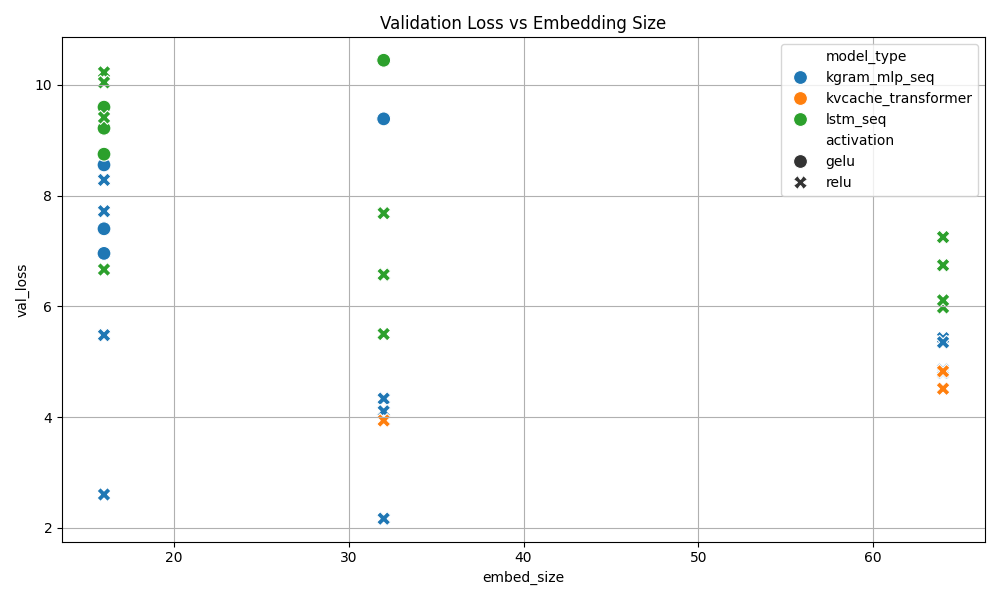
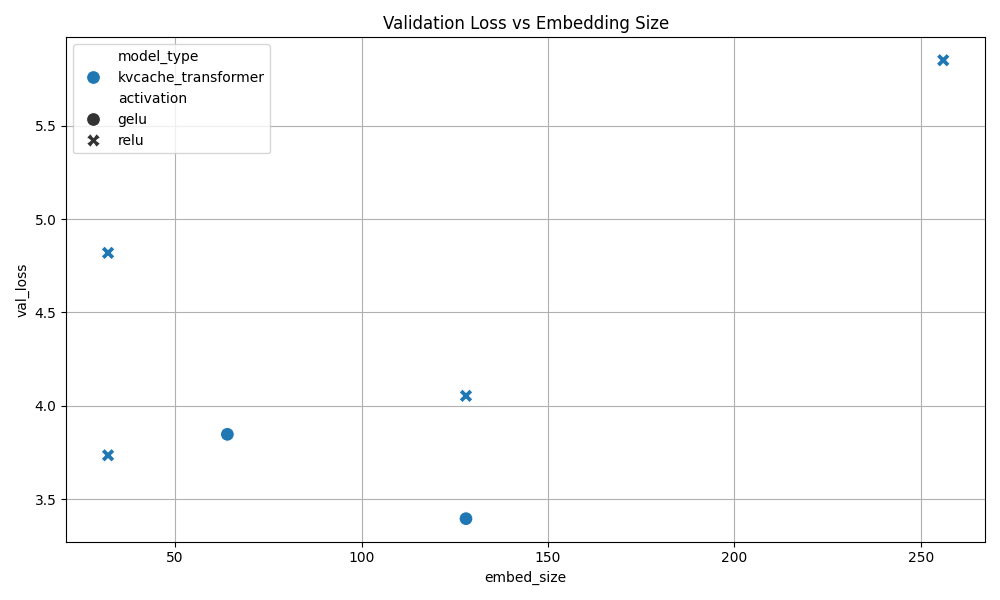
stable v1.2, hyperparam limits tested and set in the batch_train.py file

diff --git a/total_summary_analysis.py b/total_summary_analysis.py
@@ -5,42 +5,38 @@ import os
 import csv
 from collections import OrderedDict
 
+# ✅ Keep merge_summaries() unchanged
 def merge_summaries(analysis_dir="analysis_runs", output_csv="summary.csv"):
     merged_rows = OrderedDict()
-
-    # Look for all cache files in analysis_runs/
     for fname in os.listdir(analysis_dir):
         if fname.startswith("summary_cache") and fname.endswith(".csv"):
             full_path = os.path.join(analysis_dir, fname)
             print(f"📥 Reading {fname}")
-
             with open(full_path, newline='', encoding="utf-8") as f:
                 reader = csv.DictReader(f)
                 for row in reader:
                     config_name = row["config_name"]
-                    merged_rows[config_name] = row  # Overwrite with the latest
-
+                    merged_rows[config_name] = row
     if not merged_rows:
         print("⚠ No summary_cache files found.")
         return
-
-    # Write merged file
     output_path = os.path.join(analysis_dir, output_csv)
     keys = list(next(iter(merged_rows.values())).keys())
     with open(output_path, "w", newline='', encoding="utf-8") as f:
         writer = csv.DictWriter(f, fieldnames=keys)
         writer.writeheader()
         writer.writerows(merged_rows.values())
-
     print(f"\n✅ Merged summary written to {output_path} ({len(merged_rows)} entries)")
 
-
+# Merge summaries into one CSV
 summary_path = "analysis_runs/summary.csv"
 merge_summaries()
+
+# Proceed only if summary file exists
 if not os.path.exists(summary_path):
     raise FileNotFoundError("❌ summary.csv not found in analysis_runs/. Run analyze_all_checkpoints.py first.")
 
-# Load and clean
+# Load and clean summary
 df = pd.read_csv(summary_path)
 numeric_cols = [
     'avg_loss', 'val_loss', 'perplexity', 'token_accuracy',
@@ -51,45 +47,67 @@ for col in numeric_cols:
     if col in df.columns:
         df[col] = pd.to_numeric(df[col], errors='coerce')
 
-# Create output folder
-os.makedirs("analysis_runs/plots", exist_ok=True)
+# Output plots folder
+output_dir = "analysis_runs/plots"
+os.makedirs(output_dir, exist_ok=True)
 
-# 1. val_loss vs embed_size
-plt.figure(figsize=(10, 6))
-sns.scatterplot(data=df, x='embed_size', y='val_loss', hue='model_type', style='activation', s=100)
-plt.title("Validation Loss vs Embedding Size")
-plt.grid(True)
-plt.tight_layout()
-plt.savefig("analysis_runs/plots/val_loss_vs_embed_size.png")
+# 1. val_loss vs embed_size with trendlines and facets
+g = sns.lmplot(data=df, x='embed_size', y='val_loss', hue='model_type', col='activation',
+               height=5, aspect=1.2, ci=None, scatter_kws={'s': 60})
+g.set_titles(col_template="{col_name} activation")
+g.fig.subplots_adjust(top=0.85)
+g.fig.suptitle("Validation Loss vs Embedding Size by Activation", fontsize=16)
+g.savefig(f"{output_dir}/val_loss_vs_embed_size_by_activation.png")
 plt.close()
 
-# 2. perplexity vs token_accuracy
+# 2. Perplexity vs Token Accuracy (log scale)
 plt.figure(figsize=(10, 6))
 sns.scatterplot(data=df, x='token_accuracy', y='perplexity', hue='model_type', s=100)
-plt.title("Perplexity vs Token Accuracy")
+plt.yscale('log')
+plt.title("Perplexity vs Token Accuracy (log scale)")
 plt.grid(True)
+top = df.sort_values("token_accuracy", ascending=False).head(5)
+for _, row in top.iterrows():
+    plt.text(row['token_accuracy'], row['perplexity'], row['config_name'], fontsize=8)
 plt.tight_layout()
-plt.savefig("analysis_runs/plots/perplexity_vs_accuracy.png")
+plt.savefig(f"{output_dir}/perplexity_vs_accuracy_log.png")
 plt.close()
 
-# 3. val_loss by activation
+# 3. val_loss by activation (ordered + stripplot overlay)
 plt.figure(figsize=(10, 6))
-sns.boxplot(data=df, x='activation', y='val_loss', hue='model_type')
-plt.title("Validation Loss by Activation Function")
+order = df.groupby("activation")["val_loss"].median().sort_values().index
+sns.boxplot(data=df, x='activation', y='val_loss', hue='model_type', order=order)
+sns.stripplot(data=df, x='activation', y='val_loss', hue='model_type', dodge=True, alpha=0.5, order=order)
+plt.title("Validation Loss by Activation Function (Ordered by Median)")
 plt.grid(True)
 plt.tight_layout()
-plt.savefig("analysis_runs/plots/val_loss_by_activation.png")
+plt.savefig(f"{output_dir}/val_loss_by_activation_ordered.png")
 plt.close()
 
-# 4. val_loss heatmap by embed_size × k
+# 4. val_loss heatmaps by embed_size × k per model
 if "k" in df.columns:
-    heatmap_data = df.pivot_table(index='embed_size', columns='k', values='val_loss', aggfunc='mean')
-    plt.figure(figsize=(10, 6))
-    sns.heatmap(heatmap_data, annot=True, fmt=".2f", cmap="viridis")
-    plt.title("Validation Loss Heatmap (embed_size vs k)")
-    plt.tight_layout()
-    plt.savefig("analysis_runs/plots/val_loss_heatmap_embed_k.png")
-    plt.close()
+    for model in df["model_type"].dropna().unique():
+        subset = df[df["model_type"] == model]
+        if not subset.empty:
+            heatmap_data = subset.pivot_table(index='embed_size', columns='k', values='val_loss', aggfunc='mean')
+            plt.figure(figsize=(10, 6))
+            sns.heatmap(heatmap_data, annot=True, fmt=".2f", cmap="viridis")
+            plt.title(f"{model} - Validation Loss Heatmap (embed_size vs k)")
+            plt.tight_layout()
+            plt.savefig(f"{output_dir}/val_loss_heatmap_{model}_embed_k.png")
+            plt.close()
 
-print("✅ Summary plots saved to: analysis_runs/plots/")
-# 5. val_loss heatmap by embed_size × chunk_size
+# 5. Correlation Matrix
+plt.figure(figsize=(12, 10))
+corr = df[numeric_cols].corr()
+sns.heatmap(corr, annot=True, cmap="coolwarm", fmt=".2f")
+plt.title("Correlation Matrix (Hyperparams vs Metrics)")
+plt.tight_layout()
+plt.savefig(f"{output_dir}/correlation_matrix.png")
+plt.close()
+
+# 6. Top 10 leaderboard
+top10 = df.sort_values("val_loss").head(10)
+top10_path = f"{output_dir}/top10_val_loss.csv"
+top10.to_csv(top10_path, index=False)
+print(f"✅ Top 10 configs saved to: {top10_path}")

diff --git a/main.py b/main.py
@@ -159,6 +159,17 @@ def compute_next_token_loss(logits, tokens):
 
     preds = preds.reshape(-1, vocab_size)
     gold = gold.reshape(-1)
+
+    # 🔍 Sanity checks before loss computation
+    if (gold < 0).any() or (gold >= vocab_size).any():
+        print("🔥 Invalid token ID detected in gold targets!")
+        print("Max token id:", gold.max().item(), "Vocab size:", vocab_size)
+        print("Min token id:", gold.min().item())
+        print("First few gold tokens:", gold[:10].tolist())
+        raise ValueError("Invalid token index in target tensor for cross_entropy")
+
+    assert preds.size(0) == gold.size(0), f"Mismatch: preds={preds.size()}, gold={gold.size()}"
+
     return F.cross_entropy(preds, gold)
 
 
@@ -325,10 +336,12 @@ class TransformerBlock(nn.Module):
         return x, (k, v)
 
 class TransformerModel(nn.Module):
-    def __init__(self, vocab_size=50257, d_model=1024, n_heads=2, n_blocks=4, max_seq_len=2048, activation=nn.GELU()):
+    def __init__(self, vocab_size=50257, d_model=512, n_heads=1, n_blocks=1, max_seq_len=512, activation=nn.GELU()):
         super().__init__()
         self.token_emb = nn.Embedding(vocab_size, d_model)
         self.pos_emb = nn.Embedding(max_seq_len, d_model)
+        self.max_seq_len = max_seq_len
+
         self.blocks = nn.ModuleList([
             TransformerBlock(d_model, n_heads, activation) for _ in range(n_blocks)
         ])
@@ -337,6 +350,8 @@ class TransformerModel(nn.Module):
 
     def forward(self, tokens, past_kv_cache=None):
         seq_len, batch_size = tokens.shape
+        if seq_len > self.max_seq_len:
+            raise ValueError(f"Sequence length {seq_len} exceeds model max_seq_len={self.max_seq_len}.")
         device = tokens.device
 
         tok_emb = self.token_emb(tokens)
@@ -387,25 +402,40 @@ def monosemantic_analysis_for_token(token_id, model, monosomatics, enc, device="
 # 7. Single code path for text generation
 ################################################################################
 
-def nucleus_sampling(logits, p=0.95):
+def nucleus_sampling(logits, p=0.95, temperature=8.0, past_tokens=None, repetition_penalty=1.0):
     """
-    Perform nucleus (top-p) sampling on logits.
+    Top-p (nucleus) sampling with temperature and repetition penalty.
     """
-    probs = torch.softmax(logits, dim=-1)  # (vocab_size,)
-    sorted_probs, sorted_indices = torch.sort(probs, descending=True)
-    cumulative_probs = torch.cumsum(sorted_probs, dim=-1)
+    logits = logits.clone()  # avoid modifying in-place
 
-    # Find the cutoff where cumulative prob exceeds p
+    # Apply repetition penalty
+    if past_tokens and repetition_penalty != 1.0:
+        for token_id in set(past_tokens):
+            if 0 <= token_id < logits.size(0):  # valid token range
+                if logits[token_id] > 0:
+                    logits[token_id] /= repetition_penalty
+                else:
+                    logits[token_id] *= repetition_penalty
+
+    # Handle deterministic case
+    if p >= 1.0 and temperature == 0:
+        return torch.argmax(logits).item()
+
+    if temperature != 1.0:
+        logits = logits / temperature
+
+    sorted_logits, sorted_indices = torch.sort(logits, descending=True)
+    probs = torch.softmax(sorted_logits, dim=-1)
+    cumulative_probs = torch.cumsum(probs, dim=-1)
+
     cutoff_index = torch.searchsorted(cumulative_probs, p, right=True).item()
-
-    # Get the top-k indices and their probabilities
     top_indices = sorted_indices[:cutoff_index + 1]
-    top_probs = sorted_probs[:cutoff_index + 1]
-    top_probs = top_probs / top_probs.sum()  # renormalize
+    top_probs = probs[:cutoff_index + 1]
+    top_probs = top_probs / (top_probs.sum() + 1e-8)
 
-    # Sample from the top-k
     sampled_index = torch.multinomial(top_probs, 1).item()
     return top_indices[sampled_index].item()
+
 
 def generate_text(model, enc, init_text, max_new_tokens=20, device="cpu",
                   top_p=None,
@@ -438,7 +468,13 @@ def generate_text(model, enc, init_text, max_new_tokens=20, device="cpu",
             if top_p is None:
                 chosen_token = torch.argmax(next_logits).item()
             else:
-                chosen_token = nucleus_sampling(next_logits, p=top_p)
+                chosen_token = nucleus_sampling(
+                    next_logits,
+                    p=top_p,
+                    temperature=0.8,                # or expose this as a param
+                    past_tokens=context_tokens,    # repetition tracking
+                    repetition_penalty=1.5         # tweakable
+                )
 
             context_tokens.append(chosen_token)
 
@@ -789,8 +825,8 @@ def main():
     ).to(device)
 
     models = {
-        "kgram_mlp_seq": kgram_model,
-        "lstm_seq": lstm_model,
+        # "kgram_mlp_seq": kgram_model,
+        # "lstm_seq": lstm_model,
         "kvcache_transformer": transformer,
     }
 

diff --git a/batch_train.py b/batch_train.py
@@ -7,23 +7,23 @@ import argparse
 from main import get_model_config  # ✅ Import from your main.py
 import random
 # Set a fixed seed for reproducibility
-random.seed(42)
+random.seed(71236)
 
 # Define your hyperparameter grid
 param_grid = {
     "--learning_rate": ["0.001", "0.05"],
     "--activation": ["relu", "gelu"],
-    "--batch_size": ["4", "8", "16"],
-    "--embed_size": ["16", "32", "64"],
-    "--num_inner_mlp_layers": ["3", "10"],
-    "--kgram_k": ["1", "2", "3", "4"],
-    "--block_size": ["8", "16", "32"],
-    "--num_epochs": ["2", "5", "7"],
+    "--batch_size": ["32", "64", "128", "256", "512"],
+    "--embed_size": ["32", "64", "128", "256"],
+    "--num_inner_mlp_layers": ["3", "5", "7", "9", "11"],
+    "--kgram_k": ["1", "2", "3", "4", "5"],
+    "--block_size": ["16", "32", "64", "128"],
+    "--num_epochs": ["2", "5", "7", "10"],
     "--tinystories_weight": ["0.8"],
     "--val_split": ["0.2"],
 
     # Fixed arguments
-    "--train_subset_size": ["1000"],
+    "--train_subset_size": ["10000"],
     "--max_steps_per_epoch": ["20"],
     "--log_interval_steps": ["19"],
     "--sample_interval_seconds": ["30"],
@@ -42,7 +42,7 @@ combinations = list(itertools.product(*values))
 # Shuffle the seed so that quick testing has variey of data
 # good mix of hyperparms can produce 7000+ permutations
 random.shuffle(combinations)
-combinations = combinations[:15]  # Limit to 100 combinations for quick testing
+combinations = combinations[:10]  # Limit to 100 combinations for quick testing
 print(f"Total experiments to run: {len(combinations)}")
 
 def strip_timestamp(model_config_str):

diff --git a/analyze_checkpoints.py b/analyze_checkpoints.py
@@ -14,7 +14,7 @@ from matplotlib.backends.backend_tkagg import FigureCanvasTkAgg
 import tkinter as tk
 from tkinter import ttk
 
-def load_model(model_type, vocab_size, checkpoint_path, embed_size, k=3, chunk_size=1, num_inner_layers=1, block_size=128, activation="gelu"):
+def load_model(model_type, vocab_size, checkpoint_path, embed_size, k=3, chunk_size=1, num_inner_layers=1, block_size=512, activation="gelu"):
 
     if model_type == "kgram_mlp_seq":
 
@@ -171,7 +171,7 @@ def plotlosses(loss_log_path, args):
         plot_path = os.path.join(args.checkpoint_dir_sub, "metrics_curve.png")
         plt.savefig(plot_path)
         plt.close(fig)  # Close the figure to free memory
-        
+
         # Target path for the plot
         print(f"Saved training metrics plot to {plot_path}")
 
